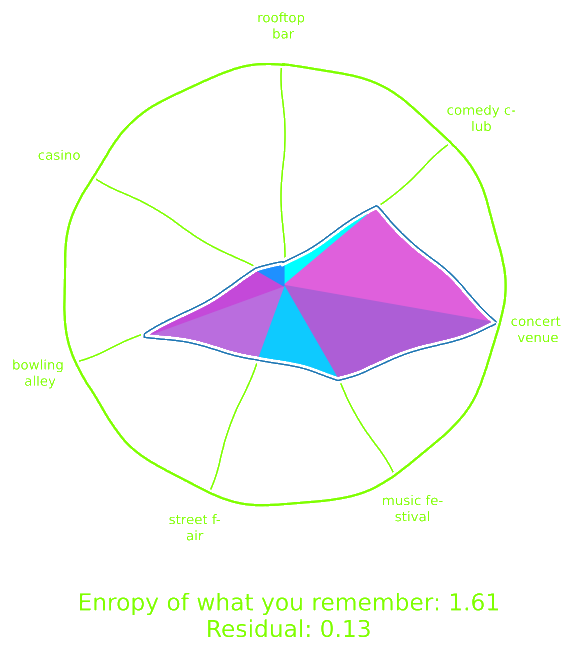
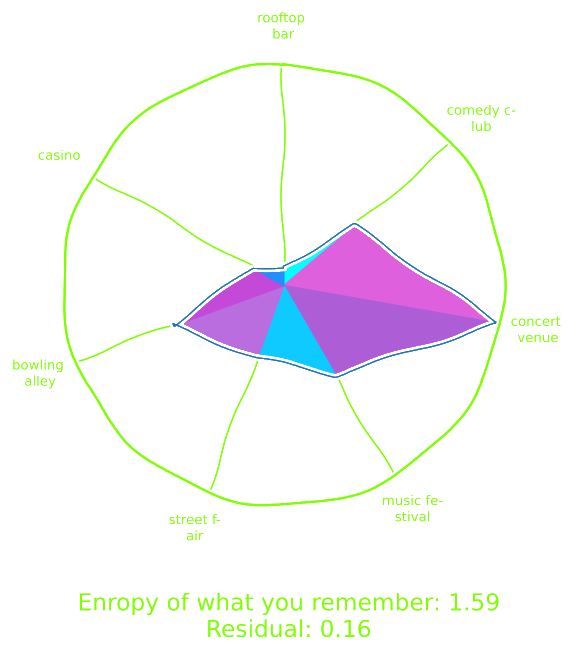
Working V2.

diff --git a/main.py b/main.py
@@ -17,8 +17,9 @@ import matplotlib.pylab as plt
 from matplotlib import patheffects
 #plt.rcParams['path.effects'] = [patheffects.withStroke(linewidth=4, foreground='b')]
 from PIL import Image, ImageFilter
+import requests
 
-openai.api_key = "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"
+openai.api_key = "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"
 
 # Load your API key from an environment variable or secret management service
 app = Flask(__name__)
@@ -148,19 +149,16 @@ def Clean_Results(counts, n_walkers, verbose = False):
     return sites_prob
 
 def find_likelyhood_strings(array):
-    possibilities = ["certainly did not go", "unlikely went ", "may have gone ", "likely went ", "certainly went "]
+    possibilities = [0, "may have gone ",  "likely went "]
+    #this can be changed
     list_of_likelyhood = []
     for ua in array:
-        if 0 <= ua < 0.1:
+        if 0 <= ua < 0.25:
             ind = 0
-        elif 0.1 <= ua < 0.4:
-            ind = 1
-        elif 0.4 <= ua < 0.6:
+        elif 0.25 <= ua < 0.75:
+            ind = 1      
+        elif 0.75 <= ua < 1.0:
             ind = 2
-        elif 0.6 <= ua < 0.9:
-            ind = 3        
-        elif 0.9 <= ua < 1.0:
-            ind = 4
         #append to list
         list_of_likelyhood.append(possibilities[ind])
     return list_of_likelyhood
@@ -356,28 +354,36 @@ def gpt_prompt_and_eval(input_places, input_probs, entropy_specifier, initial_st
     #input_strings = ["unlikely", "likely"]
     lvals = len(input_places)
     for i in range(lvals):
-        prompt_init += ", he " + input_probs[i] + " went to the " + input_places[i]
+        if input_probs[i] != 0:
+            prompt_init += ", he " + input_probs[i] + " went to the " + input_places[i]
 
     prompt_init += "."
 
     response = openai.Completion.create(model="text-davinci-003", prompt=prompt_init, temperature=0, max_tokens=400)
+
+    f = open("./assets/response.txt", "a")
+    f.write(response.choices[0].text)
+    f.close()
 
     return response.choices[0].text
 
 def image_from_response(storyline):
     #split the text
     prepro = storyline.split('\n')
+    #print(prepro)
     processed = []
     for i in range(len(prepro)):
-        if prepro[i][0:3] != 'Step':
+        if len(prepro[i]) > 20:
             processed.append(prepro[i])
 
     for step in range(len(processed)):
+        #print(processed[step])
         img = openai.Image.create(prompt=processed[step], n=1,size="1024x1024")
-        img.save("pic"+step+'.png', "PNG")
-
-
-
+        img_url = img["data"][0]["url"]
+        #print("Image " + step + " url:" + img_url)
+        img_data = requests.get(img_url).content
+        with open('./assets/pic'+str(step)+'.png', 'wb') as handler:
+            handler.write(img_data)
 
 #@app.route('/api', methods = ['POST'])
 #@app.route('/')
@@ -443,6 +449,8 @@ def full_circ_instance(verbose):
 
     #clean storyline into 3 separated paragraphs
     #feed into Dall-E API
+
+    image_from_response(storyline)
 
 
 if __name__ == "__main__":
